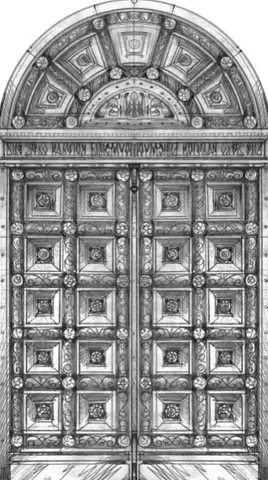
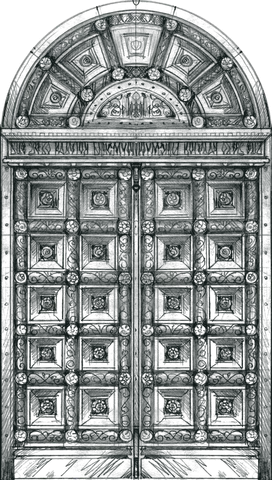
Uși: the custom-door card uses the original drawing (transparent PNG)

diff --git a/components/services/usi-models.tsx b/components/services/usi-models.tsx
@@ -172,7 +172,7 @@ export function UsiModels({doors, initial, copy, phone}: {
           <a href="#oferta"
             className="mt-6 grid grid-cols-[72px_minmax(0,1fr)_auto] items-center gap-4 rounded-[18px] border border-white/90 bg-white/70 py-2.5 pl-2.5 pr-4.5 text-ink shadow-e1 transition-[background-color,box-shadow] duration-(--duration-fade) hover:bg-white hover:shadow-e2 focus-visible:bg-white focus-visible:shadow-e2">
             <span className="grid h-24 w-18 place-items-center overflow-hidden rounded-[10px] bg-white p-1 outline outline-1 -outline-offset-1 outline-hairline">
-              <Image src="/img/usa-desen.webp" alt="" width={268} height={480} sizes="64px" className="h-full w-auto object-contain" />
+              <Image src="/img/usa-desen.webp" alt="" width={272} height={480} sizes="64px" className="h-full w-auto object-contain" />
             </span>
             <span>
               <small className="block text-[0.8125rem] text-ink-soft">{copy.own.kicker}</small>
